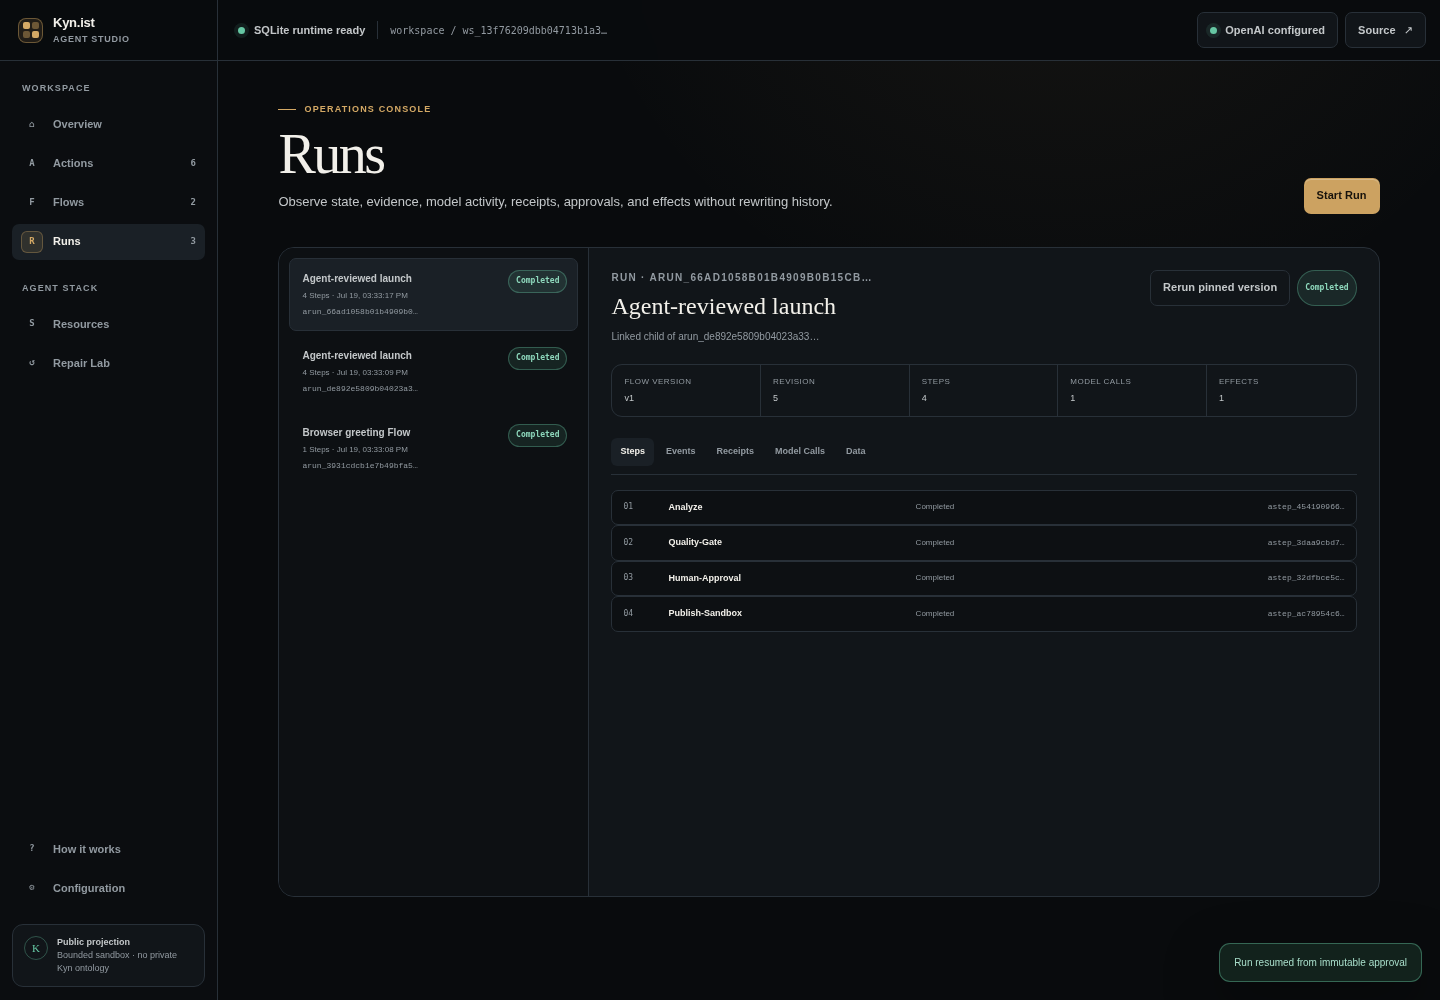
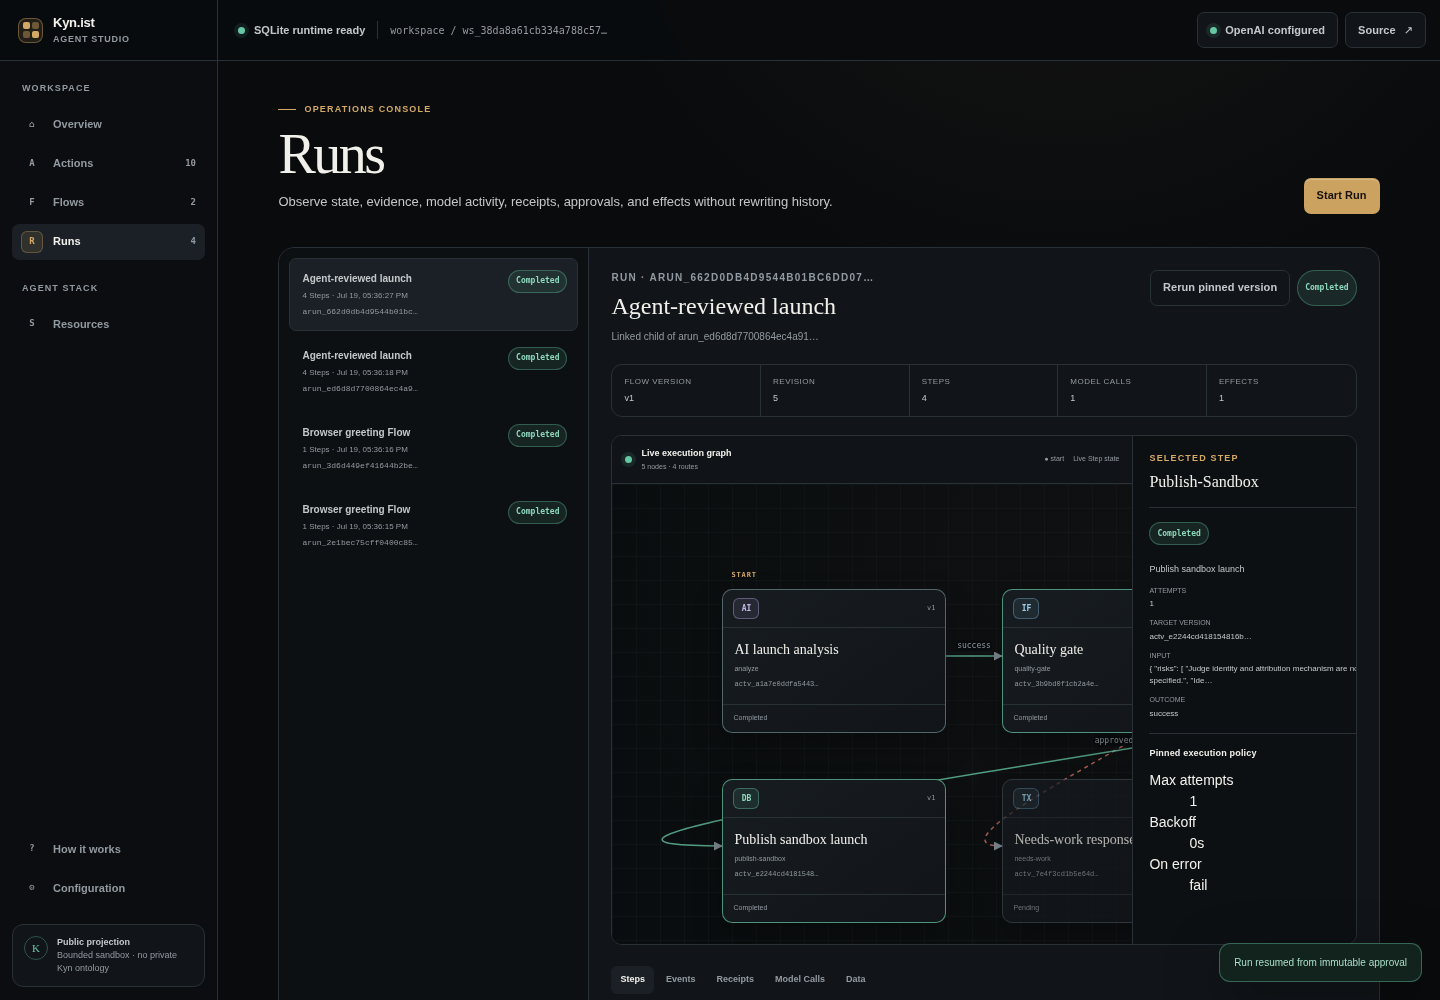
evidence: verify public agent studio release

diff --git a/evidence/README.md b/evidence/README.md
@@ -46,16 +46,13 @@ The committed proof shows:
 Screenshots:
 
 - [`live/01-agent-studio.png`](live/01-agent-studio.png)
+- [`live/02-action-contract.png`](live/02-action-contract.png)
+- [`live/02-visual-flow-builder.png`](live/02-visual-flow-builder.png)
 - [`live/02-waiting-approval.png`](live/02-waiting-approval.png)
 - [`live/03-run-evidence.png`](live/03-run-evidence.png)
-- [`live/04-repair-proven.png`](live/04-repair-proven.png)
-- [`live/05-mobile-studio.png`](live/05-mobile-studio.png)
-- [`live/06-action-builder.png`](live/06-action-builder.png)
-- [`live/07-flow-builder.png`](live/07-flow-builder.png)
-
-The last two frames are a separate visual audit of the live creation surfaces.
-They show editable strict schemas/configuration and a Flow composer with pinned
-Action-or-Agent nodes, explicit mappings, and addable outcome routes.
+- [`live/04-repair-approved.png`](live/04-repair-approved.png)
+- [`live/05-repair-proven.png`](live/05-repair-proven.png)
+- [`live/06-mobile-studio.png`](live/06-mobile-studio.png)
 
 ## Reproduce
 

diff --git a/docs/quality-gates.md b/docs/quality-gates.md
@@ -34,7 +34,7 @@ reports are superseded and are not accepted as evidence for this product surface
  6 pure browser-state tests:                              PASS
 24 Chromium full-stack Studio checks:                    PASS
  1 real GPT-5.6 end-to-end Studio Run:                   PASS
-24 public HTTPS + real GPT-5.6 Chromium checks:          PENDING REDEPLOY
+24 public HTTPS + real GPT-5.6 Chromium checks:          PASS
 ```
 
 The real-model proof executed the official Python SDK with a per-operation key,